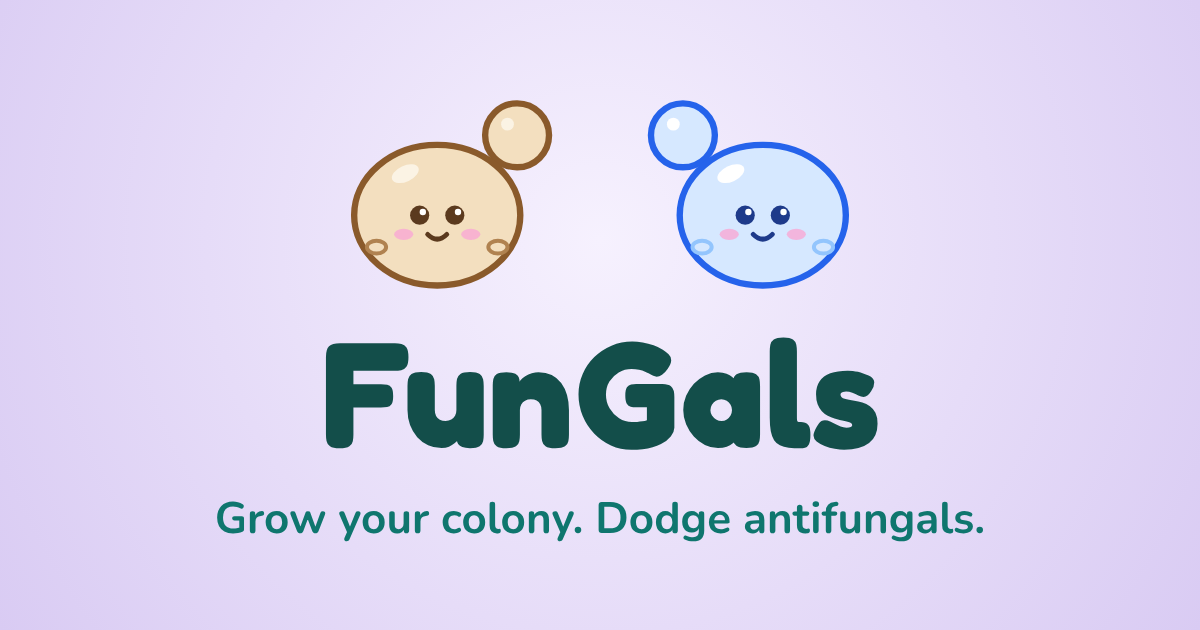
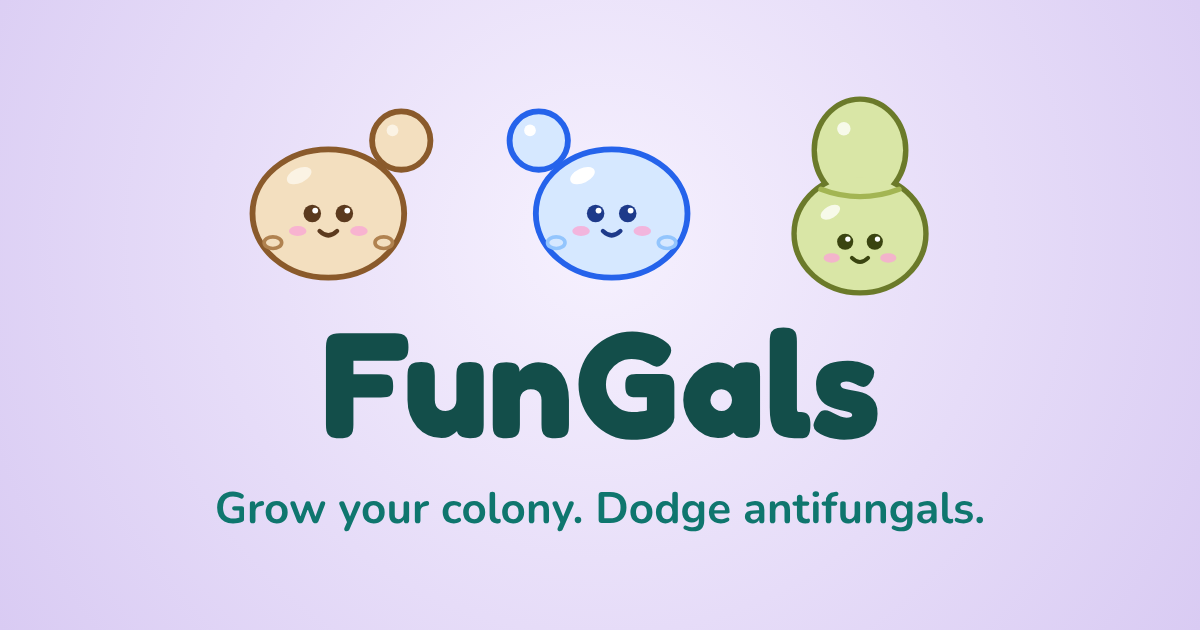
Add Olive (Malassezia furfur), an olive-green bowling-pin yeast
From Jess's mockup:
- Her drawing: a broad-based bud on top of her mother cell, with one
  smooth bowling-pin outline and a lighter collarette across the neck.
  No bud scars, since she always buds from the same spot. Olive green
  for the olive oil labs pour over her plates; wobble motion.
- Her 13 fun facts, and 9 of them in Who's That Gal?.
- In the dish her bud always grows from the top (monopolar budding),
  using a new budsFromOneEnd species setting.
- Her antifungals: ketoconazole, itraconazole, voriconazole and
  amphotericin B (estimated zones), and caspofungin with no zone at all,
  since Malassezia is naturally resistant to echinocandins.
- Picker tile color, README entries, and the link-preview picture now
  shows all three pals.

Claude-Session: https://claude.ai/code/session_01Y1iTGgFfiaB8BJZeA9TBgp

diff --git a/public/game/config.js b/public/game/config.js
@@ -6,8 +6,9 @@
 // Each antifungal's `zone` is the zone of inhibition around its disk, as the
 // diameter in millimeters a lab would measure for a susceptible strain of
 // that species. Candida has a standard disk test (CLSI M44), so Candi's are
-// ballpark figures from it. Saccharomyces has no standard disk sizes, so
-// Sasha's are estimates from how well each drug works on her. The game
+// ballpark figures from it. Saccharomyces and Malassezia have no standard
+// disk sizes, so Sasha's and Olive's are estimates from how well each drug
+// works on them. A drug she's resistant to has `zone: null`: no clear zone. The game
 // scales these down to fit the dish (see ZONE_* below).
 //
 // `antifungals` are the disks placed in each pal's dish, in order (level 1
@@ -79,6 +80,41 @@ export const SPECIES = {
       { code: 'VOR', name: 'voriconazole', zone: 31 },
       { code: 'MCF', name: 'micafungin', zone: 27 },
       { code: 'CAS', name: 'caspofungin', zone: 22 },
+    ],
+  },
+  olive: {
+    facts: [
+      "Olive's genus, *Malassezia*, is named for Louis-Charles Malassez, a French scientist.",
+      "Olive's species name, *furfur*, is Latin for \"bran,\" after the flaky scales she causes.",
+      "Yeasts in Olive's genus were once called *Pityrosporum*, a name meaning \"bran spore.\"",
+      "Yeasts in Olive's genus live on most people's skin, especially oily spots like the scalp.",
+      "Olive can't make her own fatty acids, so she eats the oils on your skin.",
+      "One way to grow Olive in the lab is to add a thin layer of olive oil to her culture plate.",
+      "Olive buds again and again from one end, so her cells can look like little bowling pins.",
+      "Olive has a little collar at her budding site, called a collarette.",
+      "*Malassezia* yeasts like Olive play a part in dandruff.",
+      "Olive can cause pityriasis versicolor: patches of skin that turn lighter or darker.",
+      "Scraped from her rash, Olive's hyphae and yeasts look like \"spaghetti and meatballs.\"",
+      "Olive can infect preemies' blood via IV lines that feed them fats, which help her grow.",
+      "Olive is a basidiomycete yeast, on the same big fungal branch as cap-and-stem mushrooms.",
+    ],
+    scientific: 'Malassezia furfur',
+    color: '#556b14', // for her name above the dish
+    kind: 'yeast',
+    // She buds again and again from the same end of her cell (monopolar
+    // budding), so her bud always grows from the top.
+    budsFromOneEnd: true,
+    colors: { fill: '#d9e6a6', stroke: '#6b7a2a', highlight: '#f7faea', dark: '#3a4410' },
+    // Malassezia has no standard disk sizes, so these are estimates from how
+    // well each drug works on her: the azoles work best (ketoconazole is the
+    // classic dandruff shampoo), and like other Malassezia she's naturally
+    // resistant to echinocandins, so caspofungin has no zone at all.
+    antifungals: [
+      { code: 'KCA', name: 'ketoconazole', zone: 32 },
+      { code: 'CAS', name: 'caspofungin', zone: null },
+      { code: 'ITC', name: 'itraconazole', zone: 28 },
+      { code: 'VOR', name: 'voriconazole', zone: 26 },
+      { code: 'AMB', name: 'amphotericin B', zone: 17 },
     ],
   },
 };

diff --git a/public/game/pals.js b/public/game/pals.js
@@ -78,6 +78,31 @@ export const PALS = [
       ${face(100, 112, '#1e3a8a')}
     `,
   },
+  // Olive: Malassezia furfur, an olive-green yeast shaped like a bowling pin:
+  // a broad-based bud on top of her mother cell, with a lighter collarette
+  // across the neck where her buds pinch off
+  {
+    id: 'olive',
+    name: 'Olive',
+    looks: 'an olive-green Malassezia furfur yeast cell shaped like a bowling pin, budding from one end',
+    motion: 'wobble',
+    frames: { home: '16 22 168 168', picker: '22 28 156 156', dish: '26 32 148 148' },
+    art: `
+      <!-- one bowling-pin outline: both cells' outlines first, then both
+           fills on top, so the outline runs smoothly round the neck -->
+      <ellipse cx="100" cy="72" rx="34" ry="38" fill="#6b7a2a" stroke="#6b7a2a" stroke-width="4" />
+      <ellipse cx="100" cy="134" rx="49" ry="44" fill="#6b7a2a" stroke="#6b7a2a" stroke-width="4" />
+      <!-- the bud, growing on a wide base from the top of her -->
+      <ellipse cx="100" cy="72" rx="32" ry="36" fill="#d9e6a6" />
+      <!-- the mother cell -->
+      <ellipse cx="100" cy="134" rx="47" ry="42" fill="#d9e6a6" />
+      <!-- the collarette, the collar left where each bud pinches off -->
+      <path d="M71 101 Q100 112 129 101" stroke="#a3b553" stroke-width="4" fill="none" stroke-linecap="round" />
+      <circle cx="88" cy="56" r="5" fill="#f7faea" />
+      <ellipse cx="78" cy="118" rx="8" ry="4.5" fill="#f7faea" transform="rotate(-30 78 118)" />
+      ${face(100, 140, '#3a4410')}
+    `,
+  },
 ];
 
 // Both pals fit in the home page's row.

diff --git a/public/game/yeast.js b/public/game/yeast.js
@@ -4,7 +4,7 @@ import { GAME } from './config.js';
 import { idlePose, newMover } from './mover.js';
 import { coaster } from './physics.js';
 
-// A budding yeast (Sasha, Candi). The player is always a single cell. Each
+// A budding yeast (Sasha, Candi, Olive). The player is always a single cell. Each
 // time she eats, a small bud swells out of her side, pinches off, and the
 // daughter keeps growing until she's full size. (Offspring that eat bud
 // too, without the swelling first.) Daughters stay stuck together in little clusters, up to
@@ -170,10 +170,12 @@ export function yeastGroup({ mover, svg, species, isPlayer }) {
       }
       if (changed) draw();
     },
-    // Start a bud swelling on the player's side, pointing a random way (if
-    // one isn't already growing).
+    // Start a bud swelling on the player's side (if one isn't already
+    // growing): from the top for a pal who always buds from the same end
+    // (Olive), or else pointing a random way.
     startBud() {
-      group.budding ??= { ms: 0, angle: Math.random() * Math.PI * 2 };
+      const angle = species.budsFromOneEnd ? -Math.PI / 2 : Math.random() * Math.PI * 2;
+      group.budding ??= { ms: 0, angle };
     },
     // Whether her bud has swelled enough to pinch off.
     budReady() {

diff --git a/public/game/quiz-facts.js b/public/game/quiz-facts.js
@@ -17,4 +17,15 @@ export const QUIZ_FACTS = {
     "Candi makes a toxin called candidalysin that punches holes in human cells.",
     "On cornmeal agar, Candi makes chlamydospores: big, round, thick-walled cells.",
   ],
+  olive: [
+    "Olive's genus, *Malassezia*, is named for Louis-Charles Malassez, a French scientist.",
+    "Olive can't make her own fatty acids, so she eats the oils on your skin.",
+    "One way to grow Olive in the lab is to add a thin layer of olive oil to her culture plate.",
+    "Olive buds again and again from one end, so her cells can look like little bowling pins.",
+    "Olive has a little collar at her budding site, called a collarette.",
+    "*Malassezia* yeasts like Olive play a part in dandruff.",
+    "Olive can cause pityriasis versicolor: patches of skin that turn lighter or darker.",
+    "Scraped from her rash, Olive's hyphae and yeasts look like \"spaghetti and meatballs.\"",
+    "Olive is a basidiomycete yeast, on the same big fungal branch as cap-and-stem mushrooms.",
+  ],
 };

diff --git a/test/yeast.test.js b/test/yeast.test.js
@@ -361,6 +361,26 @@ describe('a daughter cell', () => {
   });
 });
 
+describe('a pal who buds from one end (Olive)', () => {
+  it('always grows her bud from the top', () => {
+    for (let i = 0; i < 5; i++) {
+      const player = makeGroup('olive', { isPlayer: true });
+      player.startBud();
+      expect(player.budding.angle).toBeCloseTo(-Math.PI / 2);
+    }
+  });
+
+  it('leaves the others budding any which way', () => {
+    const angles = new Set();
+    for (let i = 0; i < 5; i++) {
+      const player = makeGroup('sasha', { isPlayer: true });
+      player.startBud();
+      angles.add(player.budding.angle);
+    }
+    expect(angles.size).toBeGreaterThan(1);
+  });
+});
+
 describe("the player's bud", () => {
   const bud = (player) => player.svg.querySelector('.bud');
   const budSize = (player) => Number(bud(player).getAttribute('rx')) / R;

diff --git a/public/index.html b/public/index.html
@@ -15,7 +15,7 @@
     <meta property="og:image" content="https://jessicasogge.github.io/fungals/social-preview.png" />
     <meta property="og:image:width" content="1200" />
     <meta property="og:image:height" content="630" />
-    <meta property="og:image:alt" content="Sasha and Candi, two cartoon budding yeast cells, above the words FunGals: Grow your colony. Dodge antifungals." />
+    <meta property="og:image:alt" content="Sasha, Candi and Olive, three cartoon budding yeast cells, above the words FunGals: Grow your colony. Dodge antifungals." />
     <meta name="twitter:card" content="summary_large_image" />
     <link rel="icon" href="./favicon.svg" type="image/svg+xml" />
     <link rel="icon" href="./favicon-32.png" type="image/png" sizes="32x32" />

diff --git a/public/pal-picker.html b/public/pal-picker.html
@@ -15,7 +15,7 @@
     <meta property="og:image" content="https://jessicasogge.github.io/fungals/social-preview.png" />
     <meta property="og:image:width" content="1200" />
     <meta property="og:image:height" content="630" />
-    <meta property="og:image:alt" content="Sasha and Candi, two cartoon budding yeast cells, above the words FunGals: Grow your colony. Dodge antifungals." />
+    <meta property="og:image:alt" content="Sasha, Candi and Olive, three cartoon budding yeast cells, above the words FunGals: Grow your colony. Dodge antifungals." />
     <meta name="twitter:card" content="summary_large_image" />
     <link rel="icon" href="./favicon.svg" type="image/svg+xml" />
     <link rel="icon" href="./favicon-32.png" type="image/png" sizes="32x32" />

diff --git a/public/petri-dish.html b/public/petri-dish.html
@@ -15,7 +15,7 @@
     <meta property="og:image" content="https://jessicasogge.github.io/fungals/social-preview.png" />
     <meta property="og:image:width" content="1200" />
     <meta property="og:image:height" content="630" />
-    <meta property="og:image:alt" content="Sasha and Candi, two cartoon budding yeast cells, above the words FunGals: Grow your colony. Dodge antifungals." />
+    <meta property="og:image:alt" content="Sasha, Candi and Olive, three cartoon budding yeast cells, above the words FunGals: Grow your colony. Dodge antifungals." />
     <meta name="twitter:card" content="summary_large_image" />
     <link rel="icon" href="./favicon.svg" type="image/svg+xml" />
     <link rel="icon" href="./favicon-32.png" type="image/png" sizes="32x32" />

diff --git a/public/whos-that-gal.html b/public/whos-that-gal.html
@@ -15,7 +15,7 @@
     <meta property="og:image" content="https://jessicasogge.github.io/fungals/social-preview.png" />
     <meta property="og:image:width" content="1200" />
     <meta property="og:image:height" content="630" />
-    <meta property="og:image:alt" content="Sasha and Candi, two cartoon budding yeast cells, above the words FunGals: Grow your colony. Dodge antifungals." />
+    <meta property="og:image:alt" content="Sasha, Candi and Olive, three cartoon budding yeast cells, above the words FunGals: Grow your colony. Dodge antifungals." />
     <meta name="twitter:card" content="summary_large_image" />
     <link rel="icon" href="./favicon.svg" type="image/svg+xml" />
     <link rel="icon" href="./favicon-32.png" type="image/png" sizes="32x32" />

diff --git a/test/antifungal.test.js b/test/antifungal.test.js
@@ -187,3 +187,15 @@ describe('zone of inhibition', () => {
     expect(touchesDisk(disk, [[66, 0, 5]], 200)).toBe(true);
   });
 });
+
+describe("Olive's drugs", () => {
+  it('give caspofungin no zone, since Malassezia is naturally resistant to echinocandins', () => {
+    const resistant = Object.entries(SPECIES).flatMap(([pal, s]) =>
+      s.antifungals.filter((a) => a.zone === null).map((a) => `${pal} ${a.code}`));
+    expect(resistant).toEqual(['olive CAS']);
+  });
+
+  it('start with ketoconazole, the classic dandruff-shampoo azole', () => {
+    expect(SPECIES.olive.antifungals[0].code).toBe('KCA');
+  });
+});

diff --git a/public/styles.css b/public/styles.css
@@ -337,6 +337,10 @@ body {
   background: rgba(191, 219, 254, 0.55);
 }
 
+.olive {
+  background: rgba(226, 234, 194, 0.7);
+}
+
 .pick-btn {
   margin-top: 0.75rem;
   padding: 0.7rem 1rem;

diff --git a/README.md b/README.md
@@ -23,13 +23,15 @@ Tap **Who’s That Gal?** on the home page for a quiz on the pals' fun facts, li
 |---|---|---|
 | **Sasha** | *Saccharomyces cerevisiae* | Wheat-colored oval yeast with a bud and two bud scars |
 | **Candi** | *Candida albicans* | Sky-blue oval yeast with a bud and two bud scars |
+| **Olive** | *Malassezia furfur* | Olive-green bowling pin: a broad-based bud on one end, with a collarette at the neck |
 
 ## The real science
 
 - **Budding:** yeasts don't split in two like bacteria do. A small bud swells out of the mother cell and pinches off, which is why each daughter starts small in the dish and grows. Every bud leaves a ring-shaped scar on the mother, like the two on Sasha's and Candi's pictures.
+- **Olive buds from one end:** *Malassezia furfur* buds again and again from the same end, on a wide base, so mother and bud make a bowling pin. Each bud leaves a collar there, the collarette, instead of scattered bud scars, and in the dish her buds always grow from the top. She's olive green for the olive oil labs pour over her plates: she can't make her own fatty acids, so she needs oil to grow.
 - **Candi buds too**, but *Candida albicans* can also switch from budding yeast to hyphae, long thread-like cells. In the lab, sprouting germ tubes (the start of a hypha) in serum is a classic test for her.
-- **The antifungal disks** work like the Kirby-Bauer disk test for bacteria. *Candida* has a standard disk test (CLSI M44), so Candi's zones are ballpark sizes for a susceptible strain. *Saccharomyces* has no standard disk sizes, so Sasha's are estimates from how well each drug works on her. Fluconazole only weakly holds *Saccharomyces* back, so her fluconazole zone is small.
-- **The disk codes** are the standard ones: FLC (fluconazole), VOR (voriconazole), CAS (caspofungin), MCF (micafungin), AMB (amphotericin B) and NY (nystatin).
+- **The antifungal disks** work like the Kirby-Bauer disk test for bacteria. *Candida* has a standard disk test (CLSI M44), so Candi's zones are ballpark sizes for a susceptible strain. *Saccharomyces* and *Malassezia* have no standard disk sizes, so Sasha's and Olive's are estimates from how well each drug works on them. Fluconazole only weakly holds *Saccharomyces* back, so Sasha's fluconazole zone is small. *Malassezia* is naturally resistant to echinocandins, so Olive's caspofungin disk has **no zone at all**: you can swim right up to it, but don't touch the disk itself.
+- **The disk codes** are the standard ones: FLC (fluconazole), VOR (voriconazole), KCA (ketoconazole), ITC (itraconazole), CAS (caspofungin), MCF (micafungin), AMB (amphotericin B) and NY (nystatin).
 - **The zones spread** because the drug diffuses outward from the disk into the agar: fast at first, then more slowly. On a real plate this takes hours of incubation; the game speeds it up to a few seconds.
 
 ## Coming next
